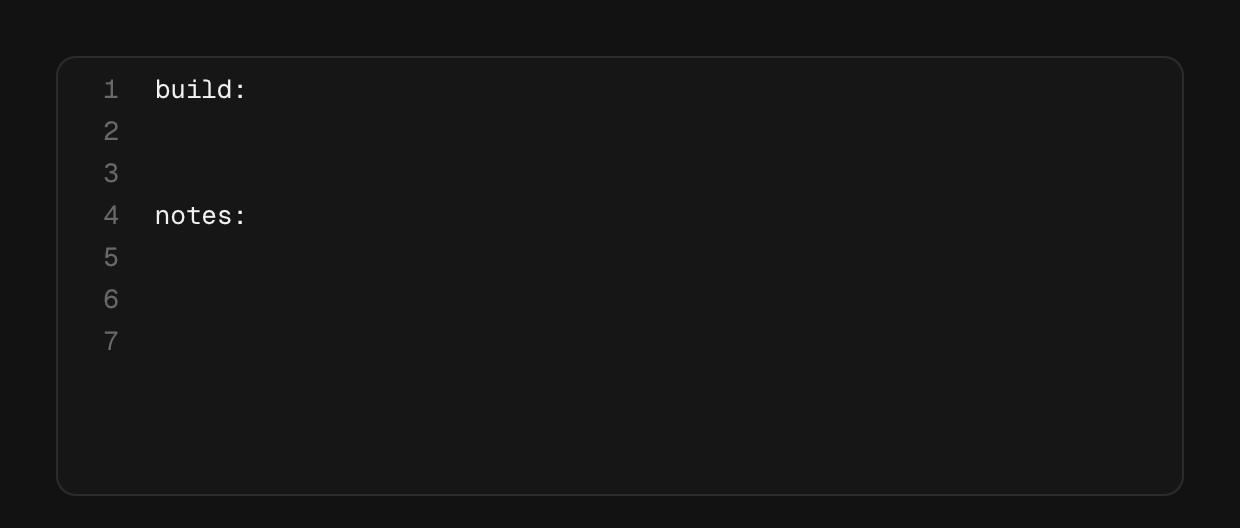
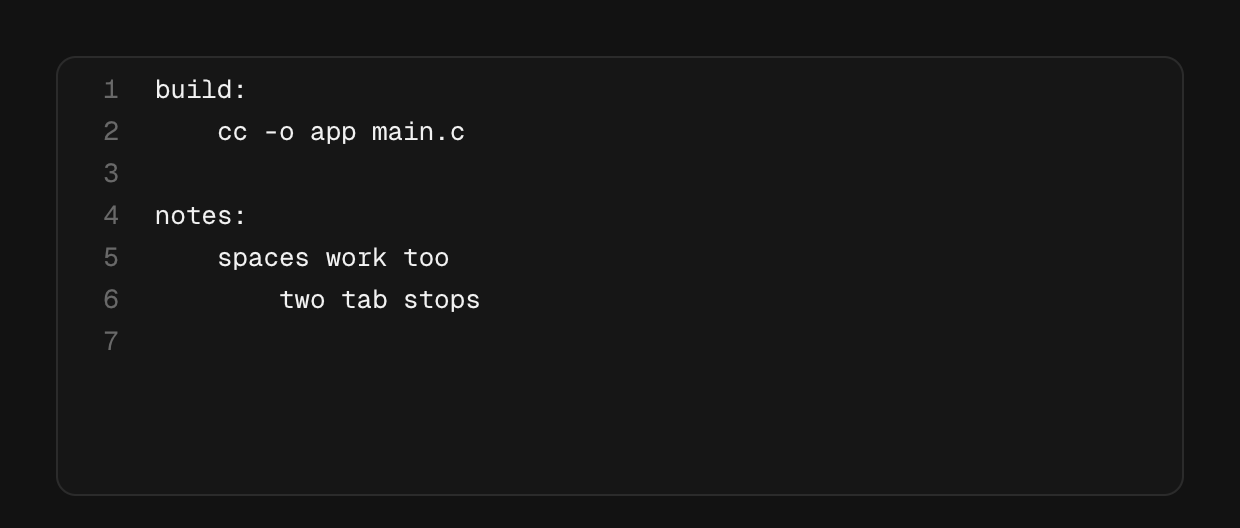
Preserve indented lines in plain-text code editors
Draw tokens even when their first character is whitespace: plain-text tokens contain the whole line, and cui__ed_run already expands tabs. Update the component documentation and light/dark screenshots.

Fixes #87

Changed region(s): [[0.1839, 0.4545, 0.3677, 0.5152], [0.2145, 0.5455, 0.3984, 0.6061], [0.1839, 0.2424, 0.3677, 0.2727]]

diff --git a/src/cui_editor.c b/src/cui_editor.c
@@ -514,7 +514,7 @@ static void cui__paint_editor(cui_ctx *ui, cui_node *n, void *data) {
             col = cui__ed_adv(s, a, b, p->tab, col);
             pos = b;
             if (ca >= p->vc1) break;
-            if (toks[t].kind == 0 && (s[a] == ' ' || s[a] == '\t')) continue;   /* white space */
+            /* A plain-text token may start with whitespace and still contain text. */
             cui__ed_run(ui, p, s, a, b, ca, x0, y + ty, p->colors[toks[t].kind]);
         }
         /* a block comment opened past the columns in view still carries on */

diff --git a/include/cui/cui.h b/include/cui/cui.h
@@ -1692,6 +1692,8 @@ CUI_API bool cui_markdown_apply_task(char *text, const cui_markdown_result *resu
  *     if (r.changed) recompile(src);
  *     cui_textf(ui, "Ln %d, Col %d", r.line, r.column);
  *
+ * With .lang = "text", indentation is preserved without syntax colors;
+ * tabs advance to the next tab_size column stop.
  * Lines never wrap; long ones scroll sideways while the gutter stays. Only
  * the lines in view are tokenized and drawn, so files of tens of thousands
  * of lines stay fast. An edit that would not fit in the capacity is refused

diff --git a/docs/components-more.md b/docs/components-more.md
@@ -852,6 +852,10 @@ if (error_line) cui_code_editor_goto(ui, "shader", error_line, error_column);   
 
 Editable code for shader editors, script consoles and config files, with the code block's highlighting (C, C++, JavaScript, TypeScript, Python, Rust, Go, JSON and shell, or plain text with no `lang`), its surface and its monospace font. You own the text: a NUL terminated buffer and its capacity, edited in place. An edit that would not fit is refused whole, never cut in half, and the result reports it (`refused`) so you can say so. The result also gives the caret's line and column (columns count a tab to its stop), the selection as byte offsets, the line count, whether the text changed this frame and, with the find bar open, how many matches there are and which one is selected. A gutter on the left numbers the lines and marks the caret's line, which also gets a quiet band across the editor; the bracket beside the caret and its partner are boxed. Lines never wrap: long ones scroll sideways under the gutter, which stays, and a hairline marks the gutter's edge while the code is scrolled. Only the lines in view are tokenized and drawn, so a file of tens of thousands of lines scrolls and types like a short one. `.read_only` keeps selection, copy, find and go to line but refuses every edit; `.placeholder` shows while the text is empty; `.tab_size` (default 4) and `.use_tabs` choose how indentation is typed; `.height` defaults to 320 points and a negative height fills the space. `cui_code_editor_goto` puts the caret at a line and column, `cui_code_editor_select` selects bytes and `cui_code_editor_find` opens the find bar with a query; each focuses the editor and scrolls there on its next frame (call them from the same id scope).
 
+Use `.lang = "text"` for plain text without syntax colors. Leading spaces and tabs preserve the visible text on the line; tabs advance to the next `.tab_size` column stop.
+
+<picture><source media="(prefers-color-scheme: dark)" srcset="images/components/code-editor-text-dark.png"><img src="images/components/code-editor-text.png" alt="Plain-text code editor preserving spaces and tab indentation"></picture>
+
 Mouse: click places the caret, Shift+click extends, drag selects (the view scrolls when the pointer leaves it), double-click selects a word, triple-click or a click in the gutter selects a line, and dragging after a double or triple click extends by words or lines. The wheel scrolls, Shift+wheel or a sideways scroll goes sideways, and the thin scrollbars that appear can be dragged. Keys, with the editor focused (on a Mac, Cmd for Ctrl and Option for the word moves):
 
 - Arrows move; Ctrl+Left and Ctrl+Right move by word; Up and Down keep the column; Page Up and Page Down move by a screen; Home goes to the first character of the line, then to column 0; End to the end of the line; Ctrl+Home and Ctrl+End to the start and end of the text. Shift with any of them extends the selection; Ctrl+A selects everything.

diff --git a/CHANGELOG.md b/CHANGELOG.md
@@ -57,6 +57,7 @@ What changed in CUI, newest first. Every component mentioned here runs live in t
 
 ### Fixed
 
+- Plain-text code editor lines remain visible after leading spaces or tabs ([#87](https://github.com/yappologistic/CUI/issues/87)).
 - Chat typing dots stay still and stop requesting frames with reduced motion ([#65](https://github.com/yappologistic/CUI/issues/65)).
 - Running task glyphs in agent plans and tool calls stay still with reduced motion ([#65](https://github.com/yappologistic/CUI/issues/65)).
 - Plain spinner arcs, including running jobs and tests, stay still with reduced motion ([#65](https://github.com/yappologistic/CUI/issues/65)).
